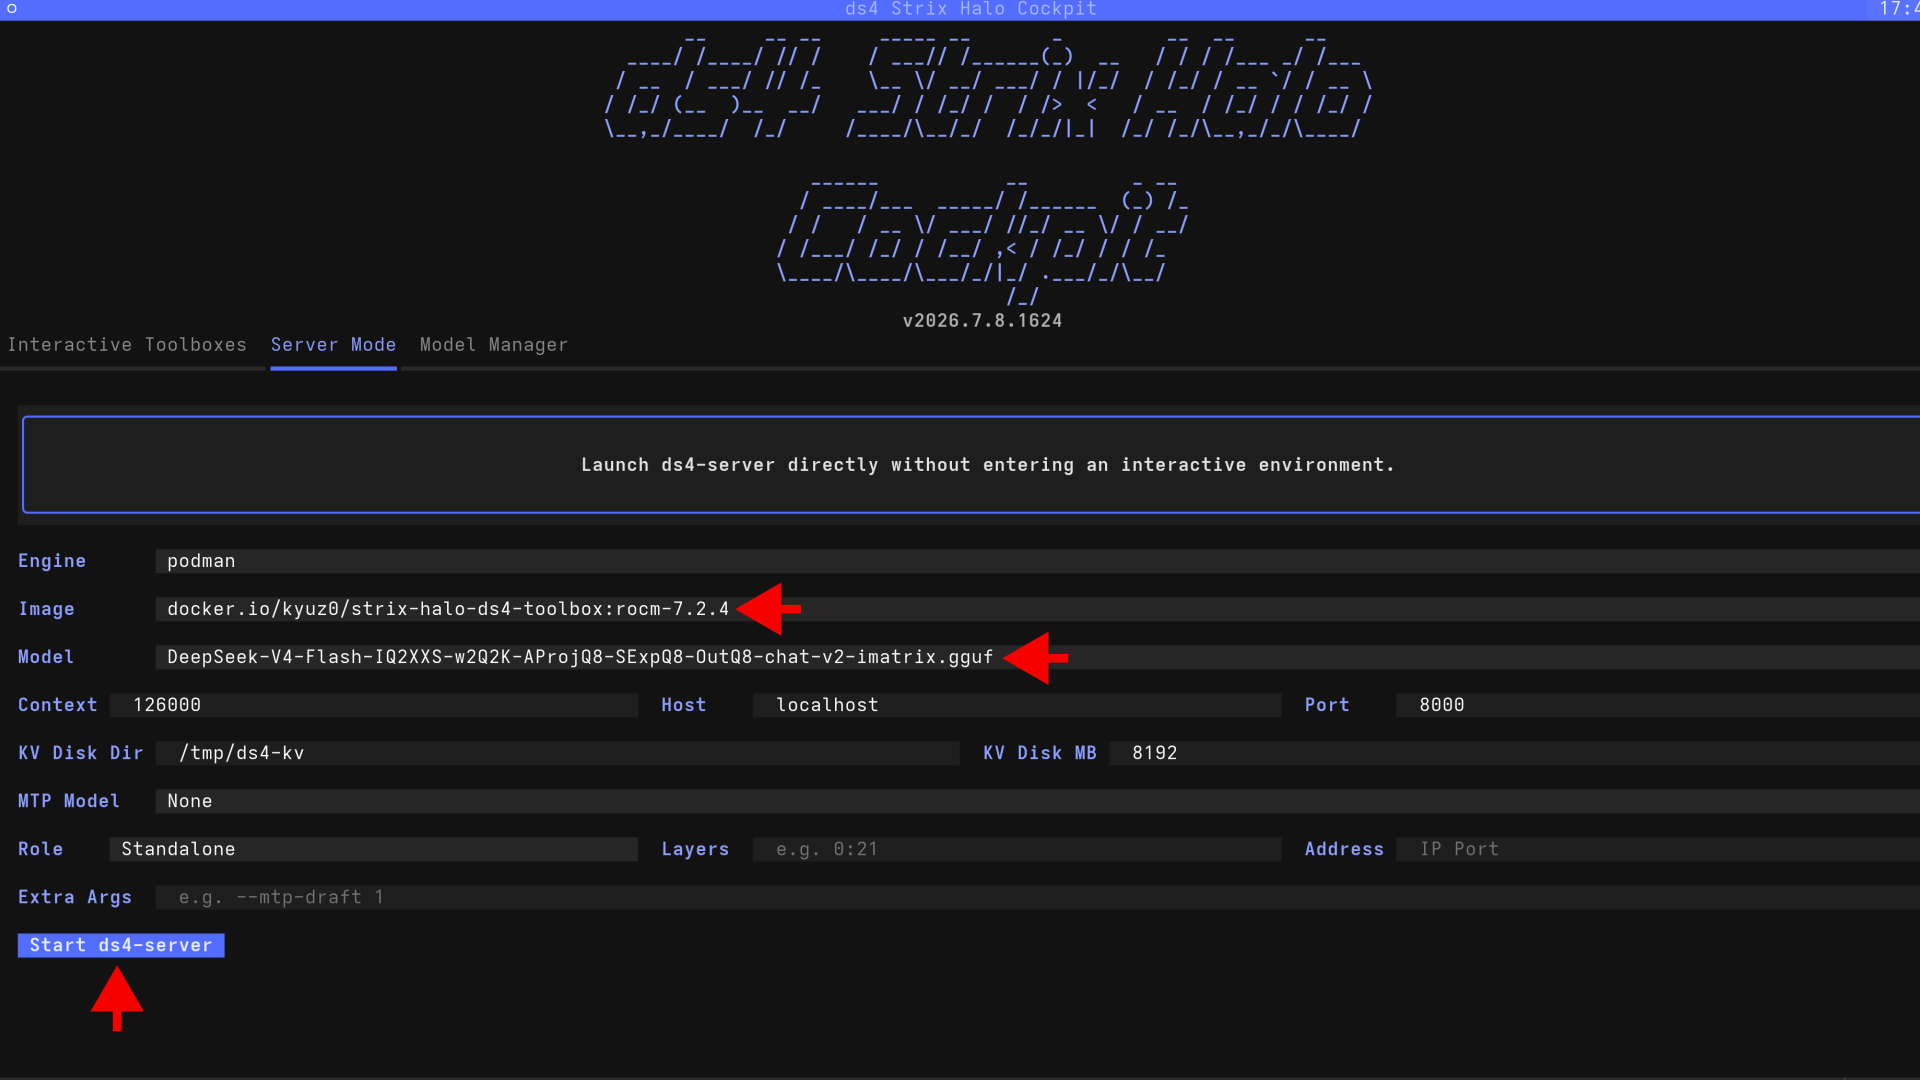
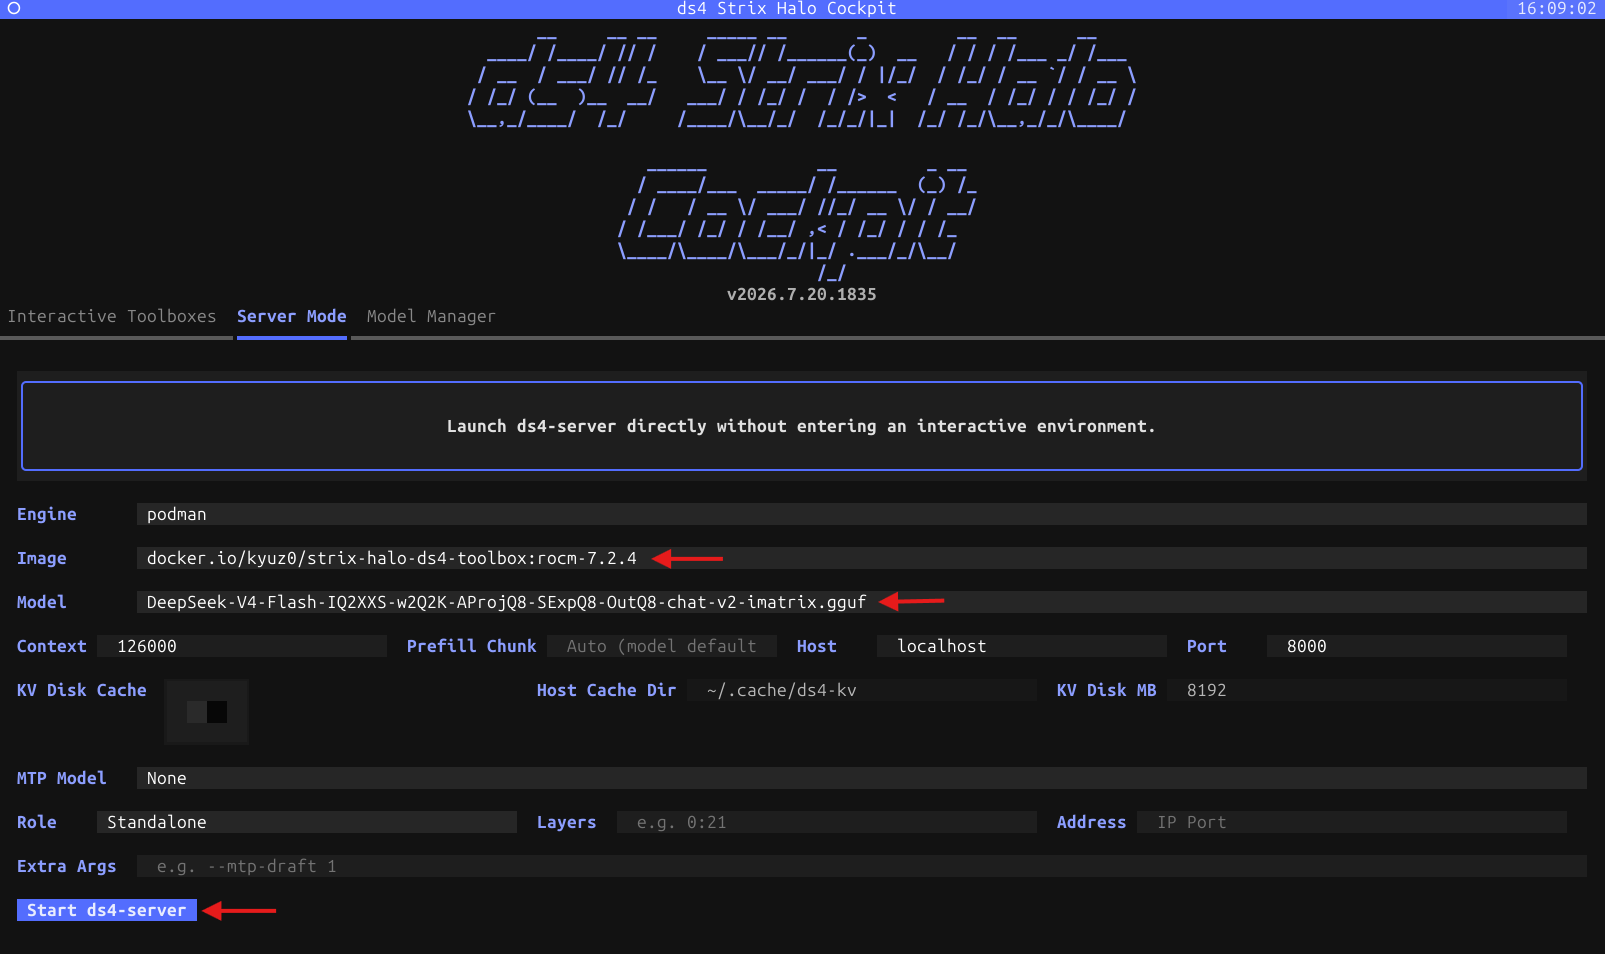
Add CI tests for the DeepSeek V4 Flash (ds4) playbook

diff --git a/playbooks/core/deepseek-v4-flash-ds4/README.md b/playbooks/core/deepseek-v4-flash-ds4/README.md
@@ -29,16 +29,28 @@ This tutorial shows how to use `ds4-cockpit`, a terminal UI, to set up ds4, down
 
 ## Installing Software Prerequisites
 
+> **System requirements for this configuration (single-node IQ2_XXS at 126k context):**
+> - A Strix Halo system with **at least 128 GB of unified memory**.
+> - **BIOS dedicated VRAM (UMA frame buffer) set to the minimum**, so the shared memory pool can be as large as possible.
+> - The GPU **shared-memory pool set to at least 110 GB**: run `amd-ttm --set 110` (see the memory configuration step above) and reboot. Lower values fail with out-of-memory when the model loads at a 126k context. If your system has less memory available, lower the **Context** value in Server Mode instead.
+
 ds4-cockpit uses container toolboxes to run the ds4 engine. Install `podman`, `distrobox`, and `pipx`:
 
-<!-- @device:halo,halo_box -->
-<!-- @os:linux -->
 ```bash
 sudo apt update
 sudo apt install -y podman distrobox pipx
 ```
-<!-- @os:end -->
-<!-- @device:end -->
+
+<!-- @test:id=ds4-prereqs-linux timeout=60 hidden=True -->
+```bash
+set -euo pipefail
+export PATH="$HOME/.local/bin:/usr/local/sbin:/usr/local/bin:/usr/sbin:/usr/bin:/sbin:/bin:$PATH"
+podman --version
+distrobox version 2>/dev/null || distrobox --version
+pipx --version
+echo "OK: podman, distrobox, and pipx are installed"
+```
+<!-- @test:end -->
 
 ## Available Quantizations
 
@@ -57,8 +69,6 @@ The **IQ2_XXS imatrix** model is a good starting point. It fits comfortably on a
 
 [ds4-cockpit](https://github.com/kyuz0/strix-halo-ds4-toolbox) is a light terminal UI to make getting up and running with ds4 on Strix Halo easy. It handles creating toolbox containers, downloading model weights, and starting servers. Install it with `pipx`:
 
-<!-- @device:halo,halo_box -->
-<!-- @os:linux -->
 ```bash
 pipx install "git+https://github.com/kyuz0/strix-halo-ds4-toolbox.git#subdirectory=ds4-strix-halo-cockpit"
 ```
@@ -67,8 +77,16 @@ Launch the cockpit:
 ```bash
 ds4-cockpit
 ```
-<!-- @os:end -->
-<!-- @device:end -->
+
+<!-- @test:id=ds4-cockpit-linux timeout=60 hidden=True -->
+```bash
+set -euo pipefail
+export PATH="$HOME/.local/bin:/usr/local/sbin:/usr/local/bin:/usr/sbin:/usr/bin:/sbin:/bin:$PATH"
+# Verify the pipx-installed cockpit entry point is on PATH (do NOT launch the TUI).
+command -v ds4-cockpit
+echo "OK: ds4-cockpit is installed and on PATH"
+```
+<!-- @test:end -->
 
 ## Creating the Toolbox
 
@@ -80,6 +98,20 @@ In the **Interactive Toolboxes** tab, select the latest available toolbox (e.g. 
   <img src="assets/ds4-cockpit-toolboxes.png" alt="Selecting the ds4 toolbox in ds4-cockpit" width="800"/>
 </p>
 
+<!-- @test:id=ds4-toolbox-image-linux timeout=120 hidden=True -->
+```bash
+set -euo pipefail
+export PATH="$HOME/.local/bin:/usr/local/sbin:/usr/local/bin:/usr/sbin:/usr/bin:/sbin:/bin:$PATH"
+
+# The toolbox version changes over time, so match the image family, not a fixed tag.
+if ! podman images --format '{{.Repository}}:{{.Tag}}' | grep -i 'strix-halo-ds4-toolbox'; then
+  echo "No strix-halo-ds4-toolbox image found. Create the toolbox in ds4-cockpit (Interactive Toolboxes tab) first."
+  exit 1
+fi
+echo "OK: ds4 toolbox container image is present"
+```
+<!-- @test:end -->
+
 ## Downloading the Model
 
 Go to the **Model Manager** tab. Select **IQ2_XXS imatrix (~80.8 GB)** from the dropdown and click **Download**. The model files will be saved to `~/ds4` by default (you can change the storage path).
@@ -88,10 +120,37 @@ Go to the **Model Manager** tab. Select **IQ2_XXS imatrix (~80.8 GB)** from the 
   <img src="assets/ds4-cockpit-model-manager.png" alt="Selecting and downloading the IQ2_XXS model" width="800"/>
 </p>
 
+<!-- @test:id=ds4-model-downloaded-linux timeout=60 hidden=True -->
+```bash
+set -euo pipefail
+
+# ds4-cockpit saves model weights to ~/ds4 by default
+model_dir="$HOME/ds4"
+
+if [ ! -d "$model_dir" ]; then
+  echo "Model directory $model_dir does not exist. Download the model in ds4-cockpit (Model Manager tab) first."
+  exit 1
+fi
+
+if ! find "$model_dir" -maxdepth 2 -iname '*.gguf' | grep -q .; then
+  echo "No .gguf model files found under $model_dir. Download the IQ2_XXS imatrix model in ds4-cockpit first."
+  exit 1
+fi
+
+# Prefer to confirm the recommended IQ2_XXS imatrix quantization is present.
+if find "$model_dir" -maxdepth 2 -iname '*IQ2*imatrix*.gguf' | grep -q .; then
+  echo "OK: IQ2_XXS imatrix model is downloaded"
+else
+  echo "OK: a GGUF model is present (recommended IQ2_XXS imatrix file not detected by name)"
+fi
+```
+<!-- @test:end -->
 
 ## Starting the Server
 
-Go to the **Server Mode** tab. Select the downloaded model and the toolbox, then configure the context size (e.g. 126000), host, and port. When ready, click **Start ds4-server**.
+Go to the **Server Mode** tab. Select the downloaded model and the toolbox, then configure the context size (e.g. 126000), host, and port (8000). When ready, click **Start ds4-server**.
+
+> **KV Disk Cache (optional).** Turning on **KV Disk Cache** offloads the KV cache to disk (at **Host Cache Dir**, default `~/.cache/ds4-kv`) so repeated system prompts are restored from SSD instead of being recomputed. It's a performance optimization for coding-agent workflows with long, repeated prompts, and is **not required** to run the server.
 
 <p align="center">
   <img src="assets/ds4-cockpit-server-mode.png" alt="Configuring and starting the ds4 server" width="800"/>
@@ -109,6 +168,123 @@ curl http://127.0.0.1:8000/v1/chat/completions \
     "stream": false
   }'
 ```
+
+<!-- @test:id=ds4-server-chat-linux timeout=1200 hidden=True -->
+```bash
+set -euo pipefail
+
+# This runner is shared with other playbooks, and ds4 at a 126k context consumes almost the entire GPU memory pool.
+# So rather than keeping ds4 resident, CI starts the server, verifies a chat completion, then stops it again.
+# This frees the memory for the next job.
+# ds4 has no separate "unload"; stopping the server process is what releases the ~80 GB model.
+
+CONTAINER="ds4-ci-server"
+MODEL_DIR="$HOME/ds4"
+
+# Locate the downloaded model (prefer the recommended IQ2_XXS imatrix file).
+model_file="$(find "$MODEL_DIR" -maxdepth 2 -iname '*IQ2*imatrix*.gguf' 2>/dev/null | head -1)"
+if [ -z "$model_file" ]; then
+  model_file="$(find "$MODEL_DIR" -maxdepth 2 -iname '*.gguf' 2>/dev/null | head -1)"
+fi
+if [ -z "$model_file" ]; then
+  echo "No .gguf model found under $MODEL_DIR. Download it in ds4-cockpit first."
+  exit 1
+fi
+model_name="$(basename "$model_file")"
+
+# Pick the toolbox image (version-agnostic).
+image="$(podman images --format '{{.Repository}}:{{.Tag}}' | grep -i 'strix-halo-ds4-toolbox' | head -1)"
+if [ -z "$image" ]; then
+  echo "No strix-halo-ds4-toolbox image found. Create the toolbox in ds4-cockpit first."
+  exit 1
+fi
+
+# Always stop/remove the server on exit so it never holds GPU memory afterwards.
+cleanup() {
+  podman stop -t 10 "$CONTAINER" >/dev/null 2>&1 || true
+  podman rm -f "$CONTAINER" >/dev/null 2>&1 || true
+}
+trap cleanup EXIT
+
+# Remove any stale instance, then start ds4-server detached (same flags ds4-cockpit uses, with -d instead of -it).
+podman rm -f "$CONTAINER" >/dev/null 2>&1 || true
+podman run -d --name "$CONTAINER" \
+  --device /dev/dri --device /dev/kfd \
+  --group-add keep-groups \
+  --security-opt seccomp=unconfined \
+  --ipc=host \
+  --cap-add=SYS_PTRACE \
+  --security-opt label=disable \
+  --userns=keep-id \
+  -p 127.0.0.1:8000:8000 \
+  -v "$MODEL_DIR":/models:ro \
+  "$image" \
+  ds4-server -m "/models/$model_name" --ctx 126000 --host 0.0.0.0 --port 8000
+
+# Wait for readiness; the ~80 GB model can take a few minutes to load.
+up=false
+for i in $(seq 1 240); do
+  code="$(curl -s -o /dev/null -w '%{http_code}' --max-time 3 http://127.0.0.1:8000/v1/models || true)"
+  if [ -n "$code" ] && [ "$code" != "000" ]; then
+    up=true
+    break
+  fi
+  if ! podman inspect -f '{{.State.Running}}' "$CONTAINER" 2>/dev/null | grep -q true; then
+    echo "ds4-server container exited during startup:"
+    podman logs "$CONTAINER" 2>&1 | tail -40 || true
+    exit 1
+  fi
+  sleep 2
+done
+
+if [ "$up" != "true" ]; then
+  echo "ds4 server did not become ready on http://127.0.0.1:8000"
+  podman logs "$CONTAINER" 2>&1 | tail -40 || true
+  exit 1
+fi
+echo "OK: ds4 server is responding on :8000"
+
+body='{
+  "model": "deepseek-v4-flash",
+  "messages": [{"role": "user", "content": "Reply with exactly: OK"}],
+  "temperature": 0,
+  "max_tokens": 32,
+  "stream": false
+}'
+
+out="$(curl -sS --fail-with-body --max-time 300 http://127.0.0.1:8000/v1/chat/completions \
+  -H 'Content-Type: application/json' \
+  -d "$body")"
+
+if [ -z "$out" ]; then
+  echo "Empty response from ds4 /v1/chat/completions"
+  exit 1
+fi
+
+export DS4_OUT="$out"
+python3 - <<'PY'
+import json, os, sys
+
+data = json.loads(os.environ["DS4_OUT"])
+choices = data.get("choices")
+if not choices:
+    print("Response has no 'choices':")
+    print(json.dumps(data, indent=2)[:2000])
+    sys.exit(1)
+
+message = choices[0].get("message", {}) or {}
+content = message.get("content") or message.get("reasoning_content")
+if not content:
+    print("Response choice has empty content:")
+    print(json.dumps(data, indent=2)[:2000])
+    sys.exit(1)
+
+print("OK: ds4 chat/completions returned content")
+PY
+
+echo "OK: ds4 server test complete; server stopped and GPU memory released"
+```
+<!-- @test:end -->
 
 ## Connecting a Web UI
 
